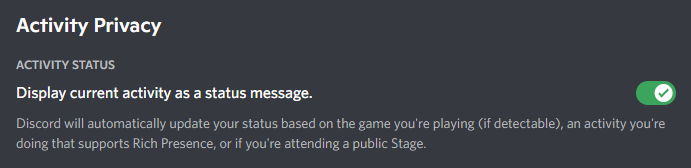
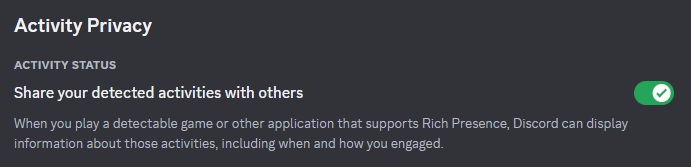
README update and version bump

diff --git a/config/constants.py b/config/constants.py
@@ -2,7 +2,7 @@ import os
 import sys
 
 name = "Discord Rich Presence for Plex"
-version = "2.7.0"
+version = "2.8.0"
 
 plexClientID = "discord-rich-presence-plex"
 discordClientID = "413407336082833418"

diff --git a/README.md b/README.md
@@ -2,7 +2,7 @@
 
 ![Showcase](assets/showcase.png)
 
-Discord Rich Presence for Plex is a Python script which displays your [Plex](https://www.plex.tv/) status on [Discord](https://discord.com/) using [Rich Presence](https://discord.com/developers/docs/rich-presence/how-to).
+Discord Rich Presence for Plex is a Python script which displays your [Plex](https://www.plex.tv/) status on [Discord](https://discord.com/) using [Rich Presence](https://discord.com/developers/docs/rich-presence/overview).
 
 [![Latest Release](https://img.shields.io/github/v/release/phin05/discord-rich-presence-plex?label=Latest%20Release)](https://github.com/phin05/discord-rich-presence-plex/releases/latest)
 [![Build Status](https://img.shields.io/github/actions/workflow/status/phin05/discord-rich-presence-plex/release.yml?label=Build&logo=github)](https://github.com/phin05/discord-rich-presence-plex/actions/workflows/release.yml)
@@ -33,13 +33,17 @@ The config file is stored in a directory named `data`.
 ### Reference
 
 * `logging`
-  * `debug` (boolean, default: `true`) - Outputs additional debug-helpful information to the console if enabled.
-  * `writeToFile` (boolean, default: `false`) - Writes console output to a `console.log` file in the `data` directory if enabled.
+  * `debug` (boolean, default: `true`) - Outputs additional debug-helpful information to the console.
+  * `writeToFile` (boolean, default: `false`) - Writes console output to a `console.log` file in the `data` directory.
 * `display` - Display settings for Rich Presence
-  * `hideTotalTime` (boolean, default: `false`) - Hides the total duration of the media if enabled.
-  * `useRemainingTime` (boolean, default: `false`) - Displays the media's remaining time instead of elapsed time if enabled.
+  * `duration` (boolean, default: `true`) - Displays the total duration.
+  * `genres` (boolean, default: `true`) - Displays the genre (applicable to movies only).
+  * `album` (boolean, default: `true`) - Displays the album name (applicable to music only).
+  * `year` (boolean, default: `true`) - Displays the release year.
+  * `remainingTime` (boolean, default: `false`) - Displays remaining time instead of elapsed time.
+  * `paused` (boolean, default: `false`) - Displays Rich Presence even while media is paused.
   * `posters`
-    * `enabled` (boolean, default: `false`) - Displays media posters if enabled. Requires `imgurClientID`.
+    * `enabled` (boolean, default: `false`) - Displays media posters (including album art and artist images). Requires `imgurClientID`.
     * `imgurClientID` (string, default: `""`) - [Obtention Instructions](#obtaining-an-imgur-client-id)
     * `maxSize` (int, default: `256`) - Maximum width and maximum height to use while downscaling posters before uploading them.
   * `buttons` (list) - [Information](#buttons)
@@ -49,7 +53,7 @@ The config file is stored in a directory named `data`.
 * `users` (list)
   * `token` (string) - An access token associated with your Plex account. ([X-Plex-Token](https://support.plex.tv/articles/204059436-finding-an-authentication-token-x-plex-token/), [Authenticating with Plex](https://forums.plex.tv/t/authenticating-with-plex/609370))
   * `servers` (list)
-    * `name` (string) - Name of the Plex Media Server you wish to connect to.
+    * `name` (string) - Name of the Plex Media Server to connect to.
     * `listenForUser` (string, optional) - The script reacts to alerts originating only from this username. Defaults to the parent user's username if not set.
     * `blacklistedLibraries` (list, optional) - Alerts originating from libraries in this list are ignored.
     * `whitelistedLibraries` (list, optional) - If set, alerts originating from libraries that are not in this list are ignored.
@@ -58,14 +62,12 @@ The config file is stored in a directory named `data`.
 ### Obtaining an Imgur client ID
 
 1. Go to Imgur's [application registration page](https://api.imgur.com/oauth2/addclient).
-2. Enter any name for the application and pick OAuth2 without a callback URL as the authorisation type.
+2. Enter any name for the application and pick "OAuth 2 authorization without a callback URL" as the authorisation type.
 3. Submit the form to obtain your application's client ID.
 
 ### Buttons
 
-Discord can display up to 2 buttons in your Rich Presence.
-
-Due to a strange Discord bug, these buttons may be unresponsive or exhibit strange behaviour towards your own clicks, but other users are able to click on them to open their corresponding URLs.
+Discord can display up to 2 buttons in your Rich Presence. Buttons are visible to only other users and not yourself.
 
 #### Dynamic Button Labels
 
@@ -89,8 +91,12 @@ logging:
   debug: true
   writeToFile: false
 display:
-  hideTotalTime: false
-  useRemainingTime: false
+  duration: true
+  genres: true
+  album: true
+  year: true
+  remainingTime: false
+  paused: false
   posters:
     enabled: true
     imgurClientID: 9e9sf637S8bRp4z
@@ -113,7 +119,7 @@ users:
 
 ## Configuration - Discord
 
-The "Display current activity as a status message" setting must be enabled in Discord Settings → Activity Settings → Activity Privacy.
+The "Share your detected activities with others" setting must be enabled in Discord Settings → Activity Settings → Activity Privacy.
 
 ![Discord Activity Privacy](assets/discord-activity-privacy.png)
 
@@ -154,7 +160,7 @@ For example, if the environment variable `XDG_RUNTIME_DIR` is set to `/run/user/
 
 The environment variables `DRPP_UID` and `DRPP_GID` can be used to specify the UID and GID of the user Discord is running as. You can determine these by running `id` in your terminal as such user.
 
-If both of the above environment variables are set, the script will change the ownership of `/run/app` and its contents to be in line with the specified UID and GID to prevent issues caused due to insufficient permissions. To skip this ownership change, set the environment variable `DRPP_NO_RUNTIME_DIR_CHOWN` to `true`. Skipping this is necessary only in cases where the runtime directory isn't dedicated exclusively to a single user.
+If both of the above environment variables are set, the script will change the ownership of `/run/app` and its contents to be in line with the specified UID and GID to prevent issues caused due to insufficient permissions. To skip this ownership change, set the environment variable `DRPP_NO_RUNTIME_DIR_CHOWN` to `true`. Skipping this is necessary only in cases where the runtime directory isn't exclusively dedicated for a single user.
 
 The ownership of `/app` and its contents will be changed as well. If both of the above environment variables are set, they will determine the ownership. Otherwise, the existing ownership information of `/run/app` will be used.
 
@@ -193,7 +199,7 @@ services:
     image: kasmweb/discord:1.14.0
     restart: unless-stopped
     ports:
-      - 6901:6901
+      - 127.0.0.1:6901:6901
     shm_size: 512m
     environment:
       VNC_PW: password

diff --git a/.github/release-notes/v2.8.0.md b/.github/release-notes/v2.8.0.md
@@ -1,0 +1,9 @@
+### Release Notes
+
+* Discord has recently added support for changing the activity type of Rich Presence. The "Watching" and "Listening" activity types are now used instead of "Playing".
+* Added additional display configuration fields. Refer to the [Configuration Reference section](https://github.com/phin05/discord-rich-presence-plex/blob/v2.8.0/README.md#reference) of the README for more information.
+
+### Installation Instructions
+
+* [Regular](https://github.com/phin05/discord-rich-presence-plex/blob/v2.8.0/README.md#installation)
+* [Docker](https://github.com/phin05/discord-rich-presence-plex/blob/v2.8.0/README.md#run-with-docker)
